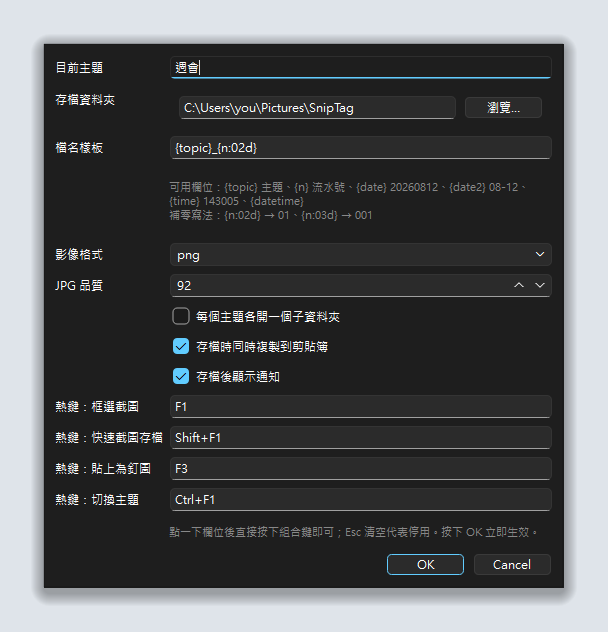
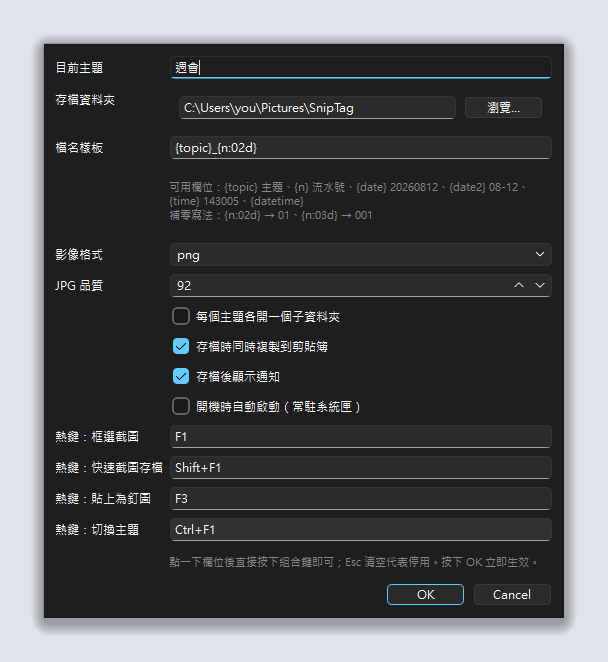
Add a start-with-Windows option to the settings
Previously the only way to run SnipTag at login was to drop a shortcut
into the startup folder by hand, which the README had to explain.

Add a checkbox that manages HKCU\...\CurrentVersion\Run directly. No
elevation is needed and other users of the machine are unaffected. The
launch command adapts to how SnipTag is running: the frozen exe points
at itself, source checkouts go through pythonw and run.py so no console
window appears.

The registry is the single source of truth rather than a mirrored config
key, so disabling the entry from Task Manager is reflected the next time
the dialog opens. A failed write (group policy, for instance) reports
through the tray instead of silently doing nothing.

diff --git a/sniptag/autostart.py b/sniptag/autostart.py
@@ -1,0 +1,97 @@
+"""開機自動啟動：寫入 HKCU 的 Run 機碼。
+
+以登錄檔為唯一真相，不另外記在設定檔裡 —— 使用者若從工作管理員的
+「開機」分頁停用，設定視窗下次打開就會顯示正確狀態。
+
+只動 HKEY_CURRENT_USER，不需要系統管理員權限，也不影響其他使用者。
+"""
+from __future__ import annotations
+
+import sys
+from pathlib import Path
+
+RUN_KEY = r"Software\Microsoft\Windows\CurrentVersion\Run"
+VALUE_NAME = "SnipTag"
+
+
+def available() -> bool:
+    return sys.platform == "win32"
+
+
+def launch_command() -> str:
+    """開機時要執行的命令列。"""
+    if getattr(sys, "frozen", False):        # PyInstaller 打包出來的 exe
+        return f'"{Path(sys.executable)}"'
+
+    # 從原始碼執行：優先用 pythonw 避免跳出黑色主控台視窗
+    launcher = Path(sys.executable)
+    windowless = launcher.with_name("pythonw.exe")
+    if windowless.exists():
+        launcher = windowless
+
+    script = Path(__file__).resolve().parent.parent / "run.py"
+    if script.exists():
+        return f'"{launcher}" "{script}"'
+    return f'"{launcher}" -m sniptag'
+
+
+def _winreg():
+    import winreg
+    return winreg
+
+
+def is_enabled(value_name: str = VALUE_NAME) -> bool:
+    if not available():
+        return False
+    winreg = _winreg()
+    try:
+        with winreg.OpenKey(winreg.HKEY_CURRENT_USER, RUN_KEY) as key:
+            value, _kind = winreg.QueryValueEx(key, value_name)
+            return bool(value)
+    except (OSError, ImportError):
+        return False
+
+
+def current_command(value_name: str = VALUE_NAME) -> str:
+    if not available():
+        return ""
+    winreg = _winreg()
+    try:
+        with winreg.OpenKey(winreg.HKEY_CURRENT_USER, RUN_KEY) as key:
+            value, _kind = winreg.QueryValueEx(key, value_name)
+            return str(value)
+    except (OSError, ImportError):
+        return ""
+
+
+def set_enabled(enabled: bool, value_name: str = VALUE_NAME,
+                command: str | None = None) -> bool:
+    """回傳是否成功。失敗多半是登錄檔被群組原則鎖住。"""
+    if not available():
+        return False
+    winreg = _winreg()
+    try:
+        with winreg.CreateKeyEx(winreg.HKEY_CURRENT_USER, RUN_KEY, 0,
+                                winreg.KEY_SET_VALUE | winreg.KEY_QUERY_VALUE) as key:
+            if enabled:
+                winreg.SetValueEx(key, value_name, 0, winreg.REG_SZ,
+                                  command or launch_command())
+            else:
+                try:
+                    winreg.DeleteValue(key, value_name)
+                except FileNotFoundError:
+                    pass        # 本來就沒開，也算成功
+        return True
+    except (OSError, ImportError):
+        return False
+
+
+def sync(enabled: bool) -> bool:
+    """設成指定狀態；已經是該狀態且命令沒變就不動它。"""
+    if not available():
+        return False
+    if enabled and is_enabled() and current_command() == launch_command():
+        return True
+    if not enabled and not is_enabled():
+        return True
+    return set_enabled(enabled)

diff --git a/test_autostart.py b/test_autostart.py
@@ -1,0 +1,64 @@
+"""開機自動啟動測試：python test_autostart.py
+
+用專屬的測試用值名稱，不會碰到真正的 SnipTag 啟動項。
+"""
+from __future__ import annotations
+
+import sys
+
+from sniptag import autostart
+
+TEST_VALUE = "SnipTag-selftest"
+
+
+def check(condition: bool, label: str) -> None:
+    print(("  ok   " if condition else "  FAIL ") + label)
+    assert condition, label
+
+
+def main() -> None:
+    print("命令列組成")
+    command = autostart.launch_command()
+    print(f"  {command}")
+    check(command.startswith('"'), "路徑有加引號（避免空白路徑被拆開）")
+    check(command.count('"') % 2 == 0, "引號成對")
+    if getattr(sys, "frozen", False):
+        check(".exe" in command.lower(), "打包後指向 exe 本身")
+    else:
+        check("python" in command.lower(), "從原始碼執行時指向 python")
+        check("run.py" in command or "-m sniptag" in command, "帶著進入點")
+
+    if not autostart.available():
+        print("\n非 Windows，略過登錄檔部分。")
+        return
+
+    print("讀寫登錄檔（使用測試專用名稱）")
+    real_before = autostart.is_enabled()
+    try:
+        check(not autostart.is_enabled(TEST_VALUE), "測試項一開始不存在")
+
+        check(autostart.set_enabled(True, TEST_VALUE), "啟用成功")
+        check(autostart.is_enabled(TEST_VALUE), "啟用後讀得到")
+        check(autostart.current_command(TEST_VALUE) == command,
+              "寫進去的命令與組出來的一致")
+
+        check(autostart.set_enabled(True, TEST_VALUE, command="custom.exe"),
+              "可以覆寫命令")
+        check(autostart.current_command(TEST_VALUE) == "custom.exe", "覆寫生效")
+
+        check(autostart.set_enabled(False, TEST_VALUE), "停用成功")
+        check(not autostart.is_enabled(TEST_VALUE), "停用後讀不到")
+        check(autostart.set_enabled(False, TEST_VALUE), "重複停用不會出錯")
+        check(autostart.current_command(TEST_VALUE) == "", "命令也清掉了")
+    finally:
+        autostart.set_enabled(False, TEST_VALUE)
+
+    print("沒有動到真正的 SnipTag 啟動項")
+    check(autostart.is_enabled() == real_before,
+          f"真實啟動項狀態不變（{real_before}）")
+
+    print("\n全部通過。")
+
+
+if __name__ == "__main__":
+    main()

diff --git a/sniptag/dialogs.py b/sniptag/dialogs.py
@@ -8,7 +8,7 @@ from PySide6.QtWidgets import (
     QHBoxLayout, QLabel, QLineEdit, QPushButton, QSpinBox, QVBoxLayout, QWidget,
 )
 
-from . import hotkeys
+from . import autostart, hotkeys
 from .naming import Namer
 
 MODIFIER_KEYS = (Qt.Key_Control, Qt.Key_Shift, Qt.Key_Alt, Qt.Key_Meta,
@@ -147,6 +147,17 @@ class SettingsDialog(QDialog):
         self.notify_check.setChecked(bool(config["notify_on_save"]))
         form.addRow("", self.notify_check)
 
+        self.autostart_check = QCheckBox("開機時自動啟動（常駐系統匣）", self)
+        self.autostart_check.setChecked(autostart.is_enabled())
+        if autostart.available():
+            self.autostart_check.setToolTip(
+                "寫入目前使用者的登錄檔啟動項，不需要系統管理員權限。\n"
+                f"執行的命令：{autostart.launch_command()}")
+        else:
+            self.autostart_check.setEnabled(False)
+            self.autostart_check.setToolTip("這個功能只支援 Windows。")
+        form.addRow("", self.autostart_check)
+
         self.hk_capture = HotkeyEdit(config["hotkey_capture"], self)
         self.hk_quick = HotkeyEdit(config["hotkey_quickshot"], self)
         self.hk_pin = HotkeyEdit(config["hotkey_pin"], self)
@@ -177,6 +188,13 @@ class SettingsDialog(QDialog):
         )
         if chosen:
             self.dir_edit.setText(chosen)
+
+    def apply_autostart(self) -> bool | None:
+        """回傳 None 表示沒有變動，否則回傳是否設定成功。"""
+        wanted = self.autostart_check.isChecked()
+        if not autostart.available() or wanted == autostart.is_enabled():
+            return None
+        return autostart.sync(wanted)
 
     def apply_to_config(self) -> None:
         self.cfg["save_dir"] = self.dir_edit.text().strip() or self.cfg["save_dir"]

diff --git a/sniptag/app.py b/sniptag/app.py
@@ -287,6 +287,11 @@ class SnipTagApp(QObject):
             accepted = dialog.exec() == SettingsDialog.Accepted
             if accepted:
                 dialog.apply_to_config()
+                changed = dialog.apply_autostart()
+                if changed is False:
+                    self.notify("無法設定開機啟動",
+                                "寫入登錄檔失敗，可能被群組原則鎖住。",
+                                QSystemTrayIcon.Warning)
                 self.menu = self._build_menu()
                 self.tray.setContextMenu(self.menu)
                 self._refresh_tooltip()

diff --git a/README.md b/README.md
@@ -59,6 +59,7 @@ Shift+F1 框一下 → 週會_03.png
 | 📌 | **釘圖到桌面** | 把截圖釘在最上層，可縮放、調透明度，對照資料很好用 |
 | 🖥 | **混合 DPI 多螢幕** | 筆電 200% + 外接 100% 也不偏移，各自以原生解析度存檔 |
 | ⌨ | **全域熱鍵** | 任何程式在前景都能觸發，熱鍵可自訂 |
+| 🚀 | **開機自動啟動** | 設定裡勾一下就常駐，不需要系統管理員權限 |
 | 📦 | **純本機執行** | 沒有網路連線、沒有帳號、沒有雲端，設定就一個 JSON |
 
 ---
@@ -99,7 +100,18 @@ python -m sniptag
 
 ### 開機自動啟動
 
-按 `Win`+`R` 輸入 `shell:startup`，把 `run.bat` 的捷徑丟進去。
+到「設定…」勾選 **「開機時自動啟動（常駐系統匣）」** 即可，按下 OK 立即生效。
+
+它寫的是目前使用者的登錄檔啟動項
+（`HKCU\Software\Microsoft\Windows\CurrentVersion\Run`），
+不需要系統管理員權限，也不會影響這台電腦的其他使用者。
+勾選框旁的提示會顯示實際會執行的命令。
+
+登錄檔是唯一真相 —— 你若從工作管理員的「開機」分頁停用它，
+設定視窗下次打開就會顯示成未勾選。
+
+> 用 exe 版的話，**搬動 `SnipTag.exe` 的位置之後要重新勾選一次**，
+> 因為啟動項記的是當初那個路徑。
 
 ---
 
@@ -351,6 +363,7 @@ sniptag/
 ├─ pinwindow.py   釘圖視窗
 ├─ dialogs.py     主題 / 設定視窗
 ├─ hotkeys.py     全域熱鍵（RegisterHotKey + native event filter）
+├─ autostart.py   開機自動啟動（HKCU 的 Run 機碼）
 └─ icon.py        程式內畫出來的圖示
 ```
 
@@ -391,6 +404,8 @@ python test_hotkeys.py
   （空心圖形只認邊框）、搬移、序號遞增、色彩格式
 - `test_history.py` —— 歷史的上限與順序、縮圖、面板動作轉派
 - `test_hotkeys.py` —— 組合鍵解析，以及錄製欄位（只按修飾鍵不覆寫、`Esc` 清空）
+- `test_autostart.py` —— 啟動命令的組成與登錄檔讀寫。用測試專用的值名稱，
+  跑完會還原，不會動到你真正的啟動項
 
 ### 重新產生文件截圖
 
